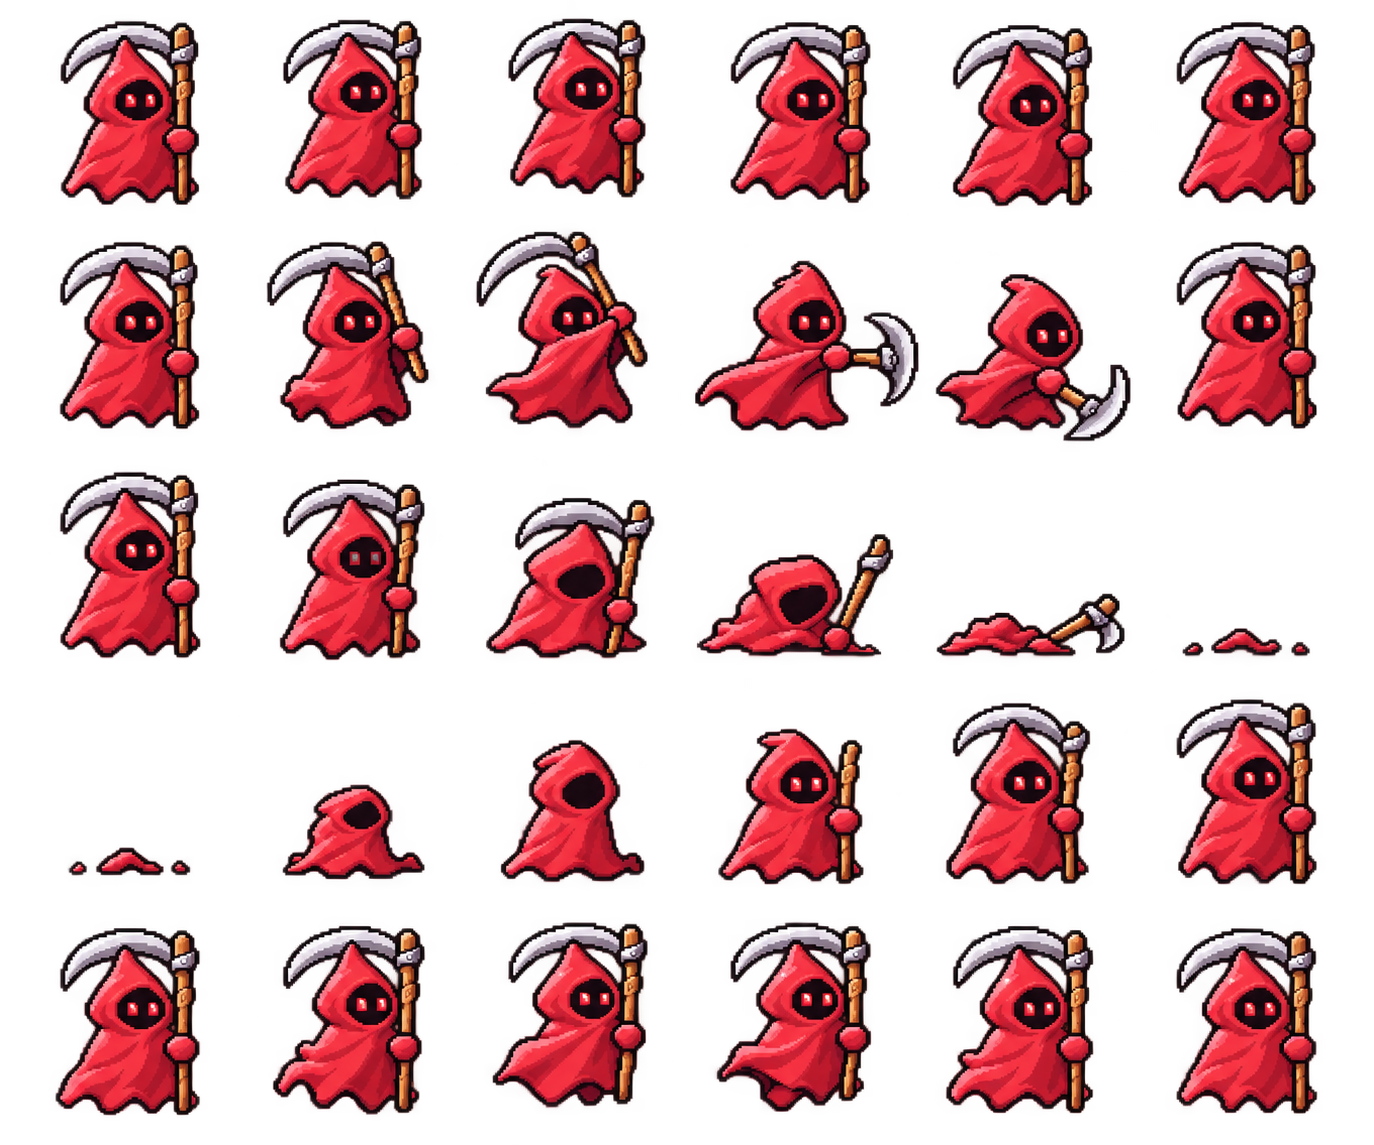
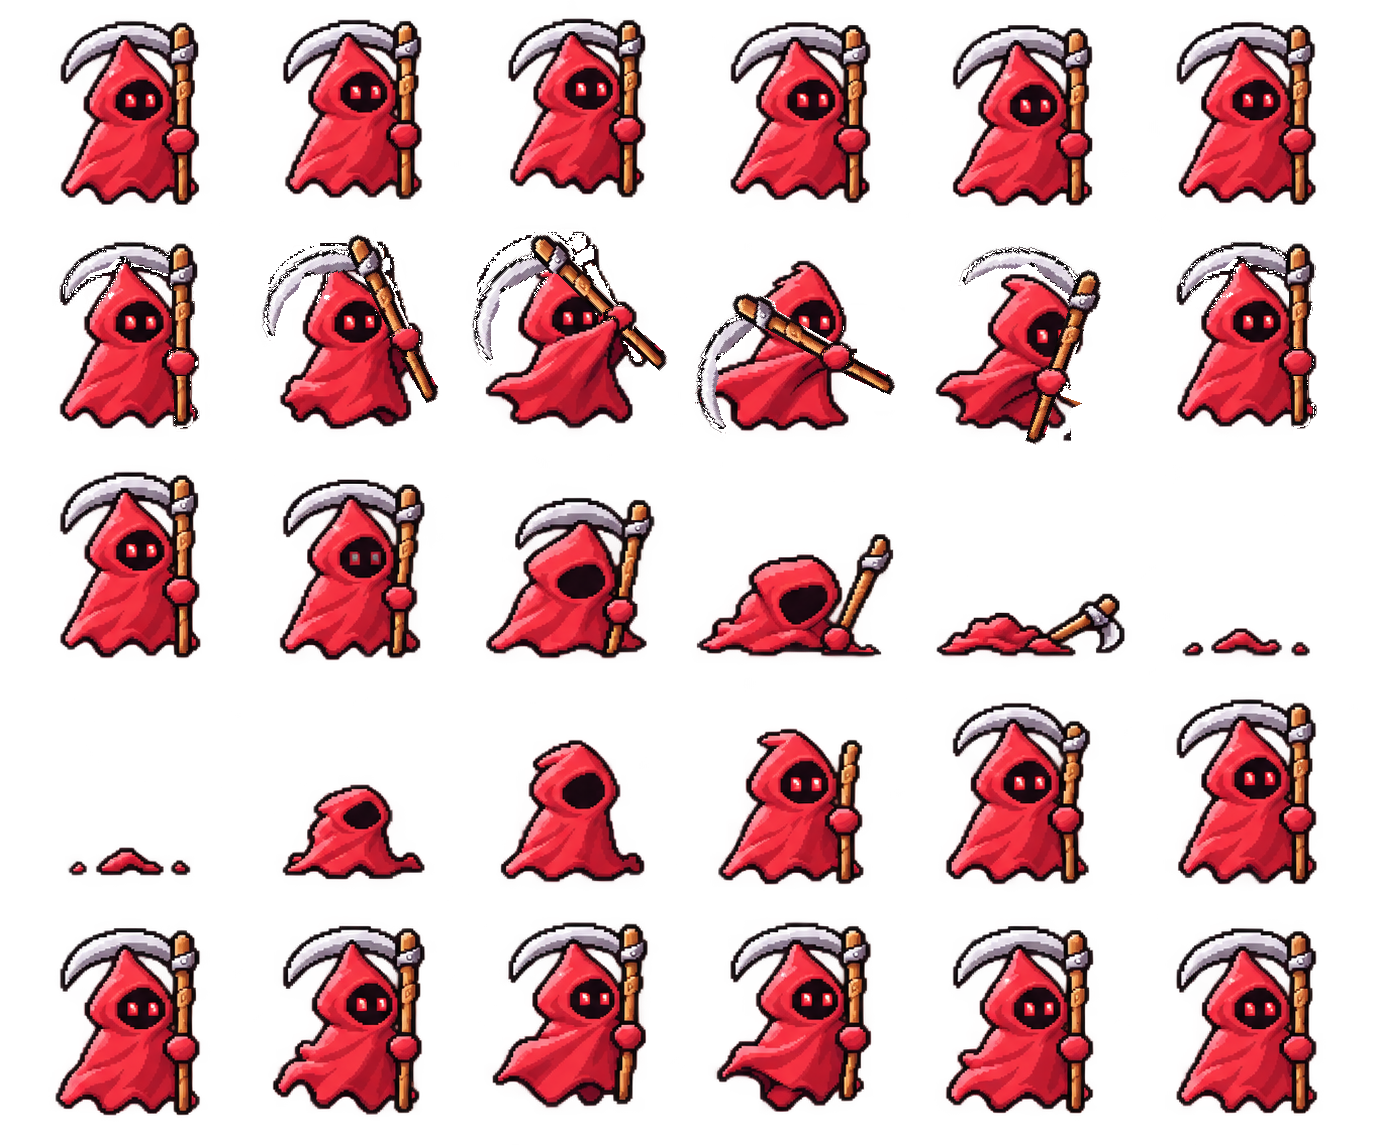
# [asset] - Reaper 공격 중 낫의 형태와 크기를 고정

diff --git a/.art-incoming/monster-animations/Reaper_WeaponFix.md b/.art-incoming/monster-animations/Reaper_WeaponFix.md
@@ -1,0 +1,9 @@
+# Reaper 공격 무기 고정
+
+사용자 요청: 공격 중 낫이 다른 무기로 바뀌지 않도록 수정한다. 나머지 동작은 보존한다.
+
+기준 무기는 Idle의 긴 갈색 자루, 긴 은색 곡선 날, 금속 고정부다. 공격 프레임마다 새로 디자인하지 않고 단일 무기 이미지를 강체 회전·이동해 사용한다. 프레임마다 날 길이, 곡률, 자루 길이, 고정부 위치를 따로 바꾸지 않는다.
+
+이미지 생성 도구로 공격 행의 무기만 수정하는 방법을 먼저 시도했으나 비율 변화가 남아, 최종 반영은 기준 무기 재배치 방식으로 진행한다. Idle·Death·Spawn·Walk 행은 원본 픽셀을 보존한다.
+
+완료: 공격 6프레임에 단일 기준 낫을 배율 1로 회전·이동해 적용했다. 공격 행 밖 RGBA 차이는 0건이며 무기 경계 잘림 0건을 검증했다. 기존 무기에 가려졌던 신체의 완전 복원과 Unity 재생 확인은 수행하지 않았다.
